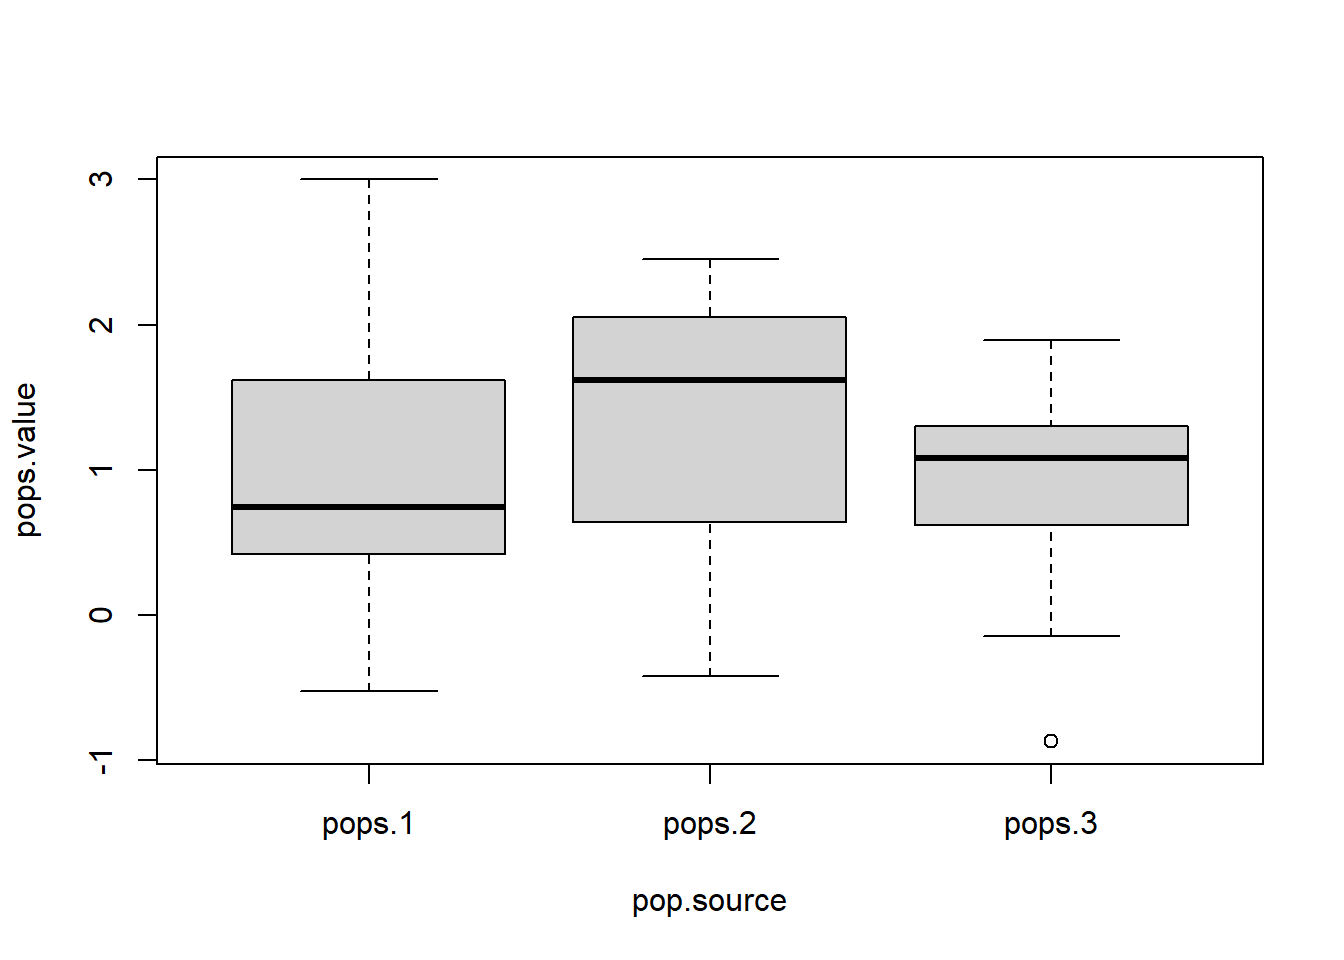
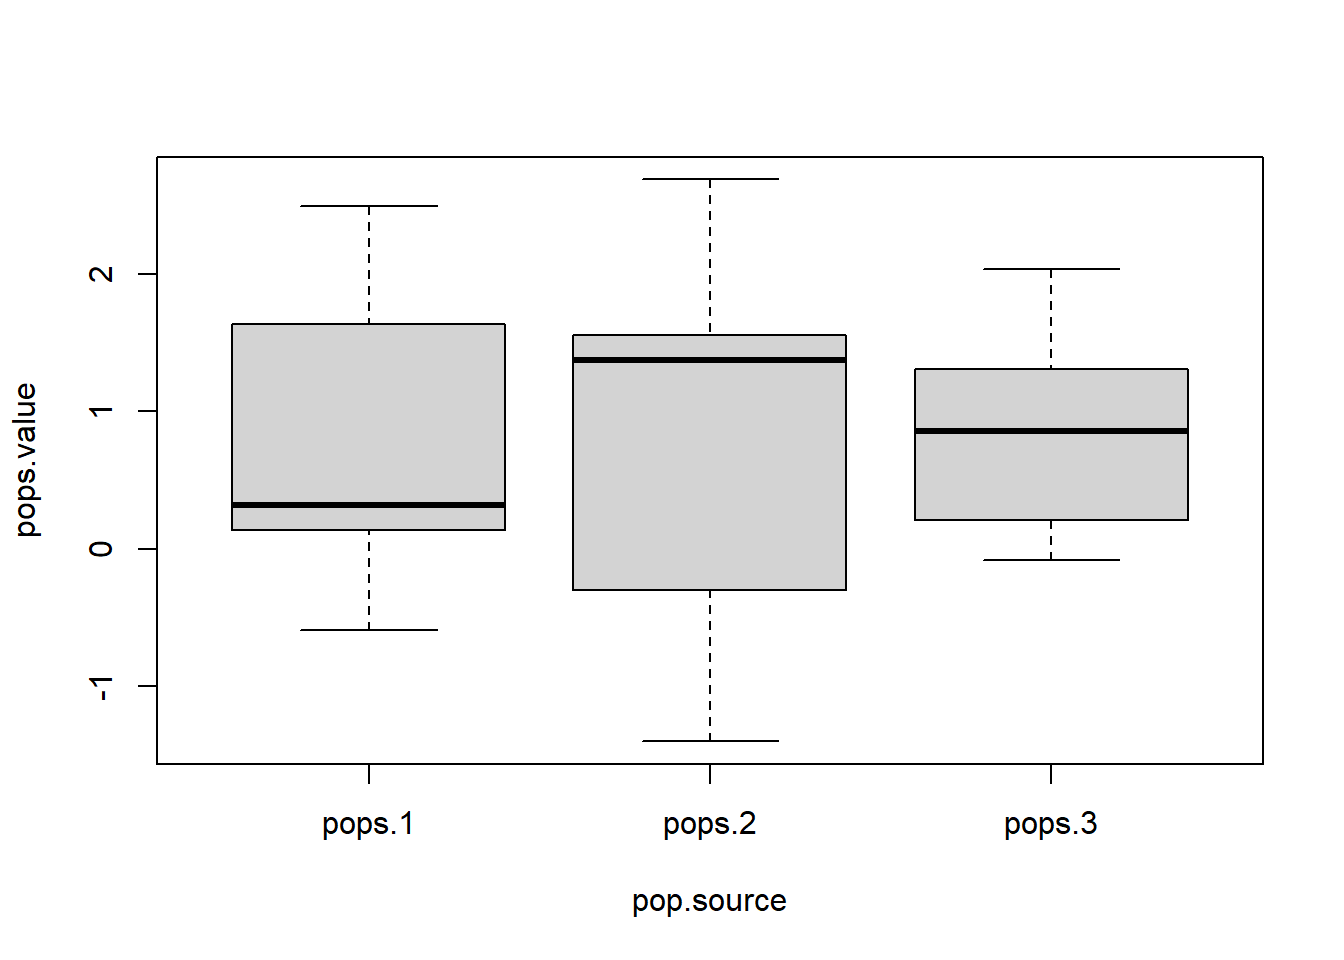
modul psd 8 9 rev

diff --git a/docs/semuahalaman/modulprak/2024/ganjil/psd/modul9.html b/docs/semuahalaman/modulprak/2024/ganjil/psd/modul9.html
@@ -9,7 +9,7 @@
 <meta name="dcterms.date" content="2024-11-25">
 <meta name="description" content="Offline di Departemen Matematika">
 
-<title>(Pertemuan 09) ANOVA dan Chi-Squared – Lab Praktikum Departemen Matematika FMIPA UI</title>
+<title>(Pertemuan 09) ANOVA dan Uji Chi-Squared – Lab Praktikum Departemen Matematika FMIPA UI</title>
 <style>
 code{white-space: pre-wrap;}
 span.smallcaps{font-variant: small-caps;}
@@ -208,8 +208,8 @@ window.Quarto = {
 
 <header id="title-block-header" class="quarto-title-block default">
 <div class="quarto-title">
-<h1 class="title">(Pertemuan 09) ANOVA dan Chi-Squared</h1>
-<p class="subtitle lead">ANOVA and Chi-Squared</p>
+<h1 class="title">(Pertemuan 09) ANOVA dan Uji Chi-Squared</h1>
+<p class="subtitle lead">ANOVA and Chi-Squared Test</p>
 </div>
 
 <div>
@@ -274,9 +274,9 @@ window.Quarto = {
 <span id="cb3-2"><a href="#cb3-2" aria-hidden="true" tabindex="-1"></a>          <span class="cf">function</span>(x) <span class="fu">c</span>(<span class="at">mean =</span> <span class="fu">mean</span>(x),<span class="at">sd =</span> <span class="fu">sd</span>(x)))</span></code><button title="Copy to Clipboard" class="code-copy-button"><i class="bi"></i></button></pre></div>
 <div class="cell-output cell-output-stdout">
 <pre><code>  pop.source pops.value.mean pops.value.sd
-1     pops.1       1.0025509     1.1154917
-2     pops.2       1.3577494     0.9804963
-3     pops.3       0.8434632     0.8088781</code></pre>
+1     pops.1       0.7641406     0.9870588
+2     pops.2       0.9432723     1.2528974
+3     pops.3       0.8596178     0.6817645</code></pre>
 </div>
 </div>
 <div class="cell">
@@ -305,7 +305,7 @@ window.Quarto = {
     One-way analysis of means
 
 data:  pops.value and pop.source
-F = 0.72722, num df = 2, denom df = 27, p-value = 0.4925</code></pre>
+F = 0.080101, num df = 2, denom df = 27, p-value = 0.9232</code></pre>
 </div>
 </div>
 <p>Fungsi lain yang dapat digunakan adalah aov()</p>
@@ -314,8 +314,8 @@ F = 0.72722, num df = 2, denom df = 27, p-value = 0.4925</code></pre>
 <span id="cb8-2"><a href="#cb8-2" aria-hidden="true" tabindex="-1"></a><span class="fu">summary</span>(av)</span></code><button title="Copy to Clipboard" class="code-copy-button"><i class="bi"></i></button></pre></div>
 <div class="cell-output cell-output-stdout">
 <pre><code>            Df Sum Sq Mean Sq F value Pr(&gt;F)
-pop.source   2  1.387  0.6933   0.727  0.492
-Residuals   27 25.740  0.9533               </code></pre>
+pop.source   2  0.161  0.0803    0.08  0.923
+Residuals   27 27.080  1.0029               </code></pre>
 </div>
 </div>
 <p>Ingat lagi bahwa daerah kritis uji ANOVA adalah:</p>
@@ -366,7 +366,7 @@ Residuals   27 25.740  0.9533               </code></pre>
     One-way analysis of means
 
 data:  pops.value and pop.source
-F = 0.98669, num df = 2, denom df = 31, p-value = 0.3842</code></pre>
+F = 0.4461, num df = 2, denom df = 31, p-value = 0.6442</code></pre>
 </div>
 </div>
 <div class="cell">
@@ -374,8 +374,8 @@ F = 0.98669, num df = 2, denom df = 31, p-value = 0.3842</code></pre>
 <span id="cb15-2"><a href="#cb15-2" aria-hidden="true" tabindex="-1"></a><span class="fu">summary</span>(av)</span></code><button title="Copy to Clipboard" class="code-copy-button"><i class="bi"></i></button></pre></div>
 <div class="cell-output cell-output-stdout">
 <pre><code>            Df Sum Sq Mean Sq F value Pr(&gt;F)
-pop.source   2   2.17   1.085   0.987  0.384
-Residuals   31  34.09   1.100               </code></pre>
+pop.source   2  0.511  0.2556   0.446  0.644
+Residuals   31 17.764  0.5730               </code></pre>
 </div>
 </div>
 <p>Ingat lagi bahwa daerah kritis uji ANOVA adalah:</p>
@@ -444,10 +444,10 @@ X-squared = 1.7, df = 5, p-value = 0.8889</code></pre>
 <span id="cb24-2"><a href="#cb24-2" aria-hidden="true" tabindex="-1"></a>dadu <span class="ot">&lt;-</span> <span class="fu">ceiling</span>(<span class="fu">runif</span>(<span class="at">n=</span>n_dadu, <span class="at">min =</span> <span class="dv">0</span>, <span class="at">max=</span><span class="dv">6</span>))</span>
 <span id="cb24-3"><a href="#cb24-3" aria-hidden="true" tabindex="-1"></a>dadu</span></code><button title="Copy to Clipboard" class="code-copy-button"><i class="bi"></i></button></pre></div>
 <div class="cell-output cell-output-stdout">
-<pre><code>  [1] 2 2 5 6 3 2 3 4 3 4 5 3 4 4 4 1 4 4 1 5 1 6 3 1 4 4 1 2 3 5 5 5 2 6 3 4 1
- [38] 1 2 3 5 6 1 5 3 2 6 5 3 2 5 5 2 6 5 2 6 1 5 6 2 6 5 6 4 6 3 4 4 4 3 5 1 3
- [75] 2 2 3 5 2 6 3 3 5 5 4 2 4 2 1 6 1 4 3 1 3 1 2 6 4 6 1 6 2 1 1 2 3 3 4 5 1
-[112] 1 6 6 5 4 4 4 2 5</code></pre>
+<pre><code>  [1] 2 6 5 4 6 6 1 2 3 4 3 5 5 6 6 5 1 5 3 5 5 5 5 6 5 2 4 5 1 5 2 3 6 3 3 5 6
+ [38] 3 6 6 2 4 1 4 6 3 2 3 1 6 2 6 5 4 3 4 2 5 6 6 5 4 3 1 5 3 6 1 6 4 2 4 1 4
+ [75] 4 6 1 4 2 5 2 5 6 1 2 4 4 6 3 1 4 3 4 6 5 6 6 2 2 6 2 1 2 4 2 6 4 6 3 2 3
+[112] 1 6 4 1 4 3 1 4 3</code></pre>
 </div>
 </div>
 <p>Dengan cara yang sama, kita dapat melakukan uji chi-squared</p>
@@ -464,7 +464,7 @@ incorrect</code></pre>
     Chi-squared test for given probabilities
 
 data:  dadu
-X-squared = 95.429, df = 119, p-value = 0.945</code></pre>
+X-squared = 91.725, df = 119, p-value = 0.97</code></pre>
 </div>
 </div>
 <p>Terdapat pesan “Warning: Chi-squared approximation may be incorrect”. Hal ini terjadi karena terdapat beberapa pengulangan nilai pada ruang sampel, di mana masing-masing nilai tersebut dianggap sebagai observasi independen yang memiliki probabilitas <span class="math inline">\(\frac{1}{120}\)</span>. Sedangkan, kita ingin menguji apakah peluang masing-masing mata dadu muncul bernilai <span class="math inline">\(\frac{1}{6}\)</span>.</p>
@@ -474,7 +474,7 @@ X-squared = 95.429, df = 119, p-value = 0.945</code></pre>
 <div class="cell-output cell-output-stdout">
 <pre><code>dadu
  1  2  3  4  5  6 
-19 20 20 22 21 18 </code></pre>
+15 18 18 22 20 27 </code></pre>
 </div>
 </div>
 <p>Maka, kita dapat melakukan uji chi-squared tanpa menggunakan fungsi chisq.test()</p>
@@ -488,7 +488,7 @@ X-squared = 95.429, df = 119, p-value = 0.945</code></pre>
 <div class="cell-output cell-output-stdout">
 <pre><code>         [,1] [,2] [,3] [,4] [,5] [,6]
 val.dadu "1"  "2"  "3"  "4"  "5"  "6" 
-obs.dadu "19" "20" "20" "22" "21" "18"
+obs.dadu "15" "18" "18" "22" "20" "27"
 ex.dadu  "20" "20" "20" "20" "20" "20"</code></pre>
 </div>
 </div>
@@ -503,7 +503,7 @@ ex.dadu  "20" "20" "20" "20" "20" "20"</code></pre>
 <div class="sourceCode cell-code" id="cb33"><pre class="sourceCode r code-with-copy"><code class="sourceCode r"><span id="cb33-1"><a href="#cb33-1" aria-hidden="true" tabindex="-1"></a>chi.hitung <span class="ot">&lt;-</span> <span class="fu">sum</span>((obs.dadu<span class="sc">-</span>ex.dadu)<span class="sc">**</span><span class="dv">2</span><span class="sc">/</span>ex.dadu)</span>
 <span id="cb33-2"><a href="#cb33-2" aria-hidden="true" tabindex="-1"></a>chi.hitung</span></code><button title="Copy to Clipboard" class="code-copy-button"><i class="bi"></i></button></pre></div>
 <div class="cell-output cell-output-stdout">
-<pre><code>[1] 0.5</code></pre>
+<pre><code>[1] 4.3</code></pre>
 </div>
 </div>
 <p>dan <span class="math inline">\(\chi^2_{\alpha, k-1}\)</span></p>

diff --git a/docs/semuahalaman/modulprak/2024/ganjil/psd/psd2024.html b/docs/semuahalaman/modulprak/2024/ganjil/psd/psd2024.html
@@ -326,13 +326,13 @@ Nov 4, 2024
 </div>
 </a>
 </div>
-<div class="g-col-1" data-index="7" data-listing-date-sort="1732467600000" data-listing-file-modified-sort="1732515721498" data-listing-date-modified-sort="NaN" data-listing-reading-time-sort="9" data-listing-word-count-sort="1634">
+<div class="g-col-1" data-index="7" data-listing-date-sort="1732467600000" data-listing-file-modified-sort="1732516031651" data-listing-date-modified-sort="NaN" data-listing-reading-time-sort="9" data-listing-word-count-sort="1634">
 <a href="../../../../../semuahalaman/modulprak/2024/ganjil/psd/modul9.html" class="quarto-grid-link">
 <div class="quarto-grid-item card h-100 card-left">
 <p class="card-img-top"><img src="modul9_files\figure-html\unnamed-chunk-4-1.png" style="height: 150px;"  class="thumbnail-image card-img"/></p>
 <div class="card-body post-contents">
 <h5 class="no-anchor card-title listing-title">
-(Pertemuan 09) ANOVA dan Chi-Squared
+(Pertemuan 09) ANOVA dan Uji Chi-Squared
 </h5>
 <div class="card-attribution card-text-small end">
 <div class="listing-date">
